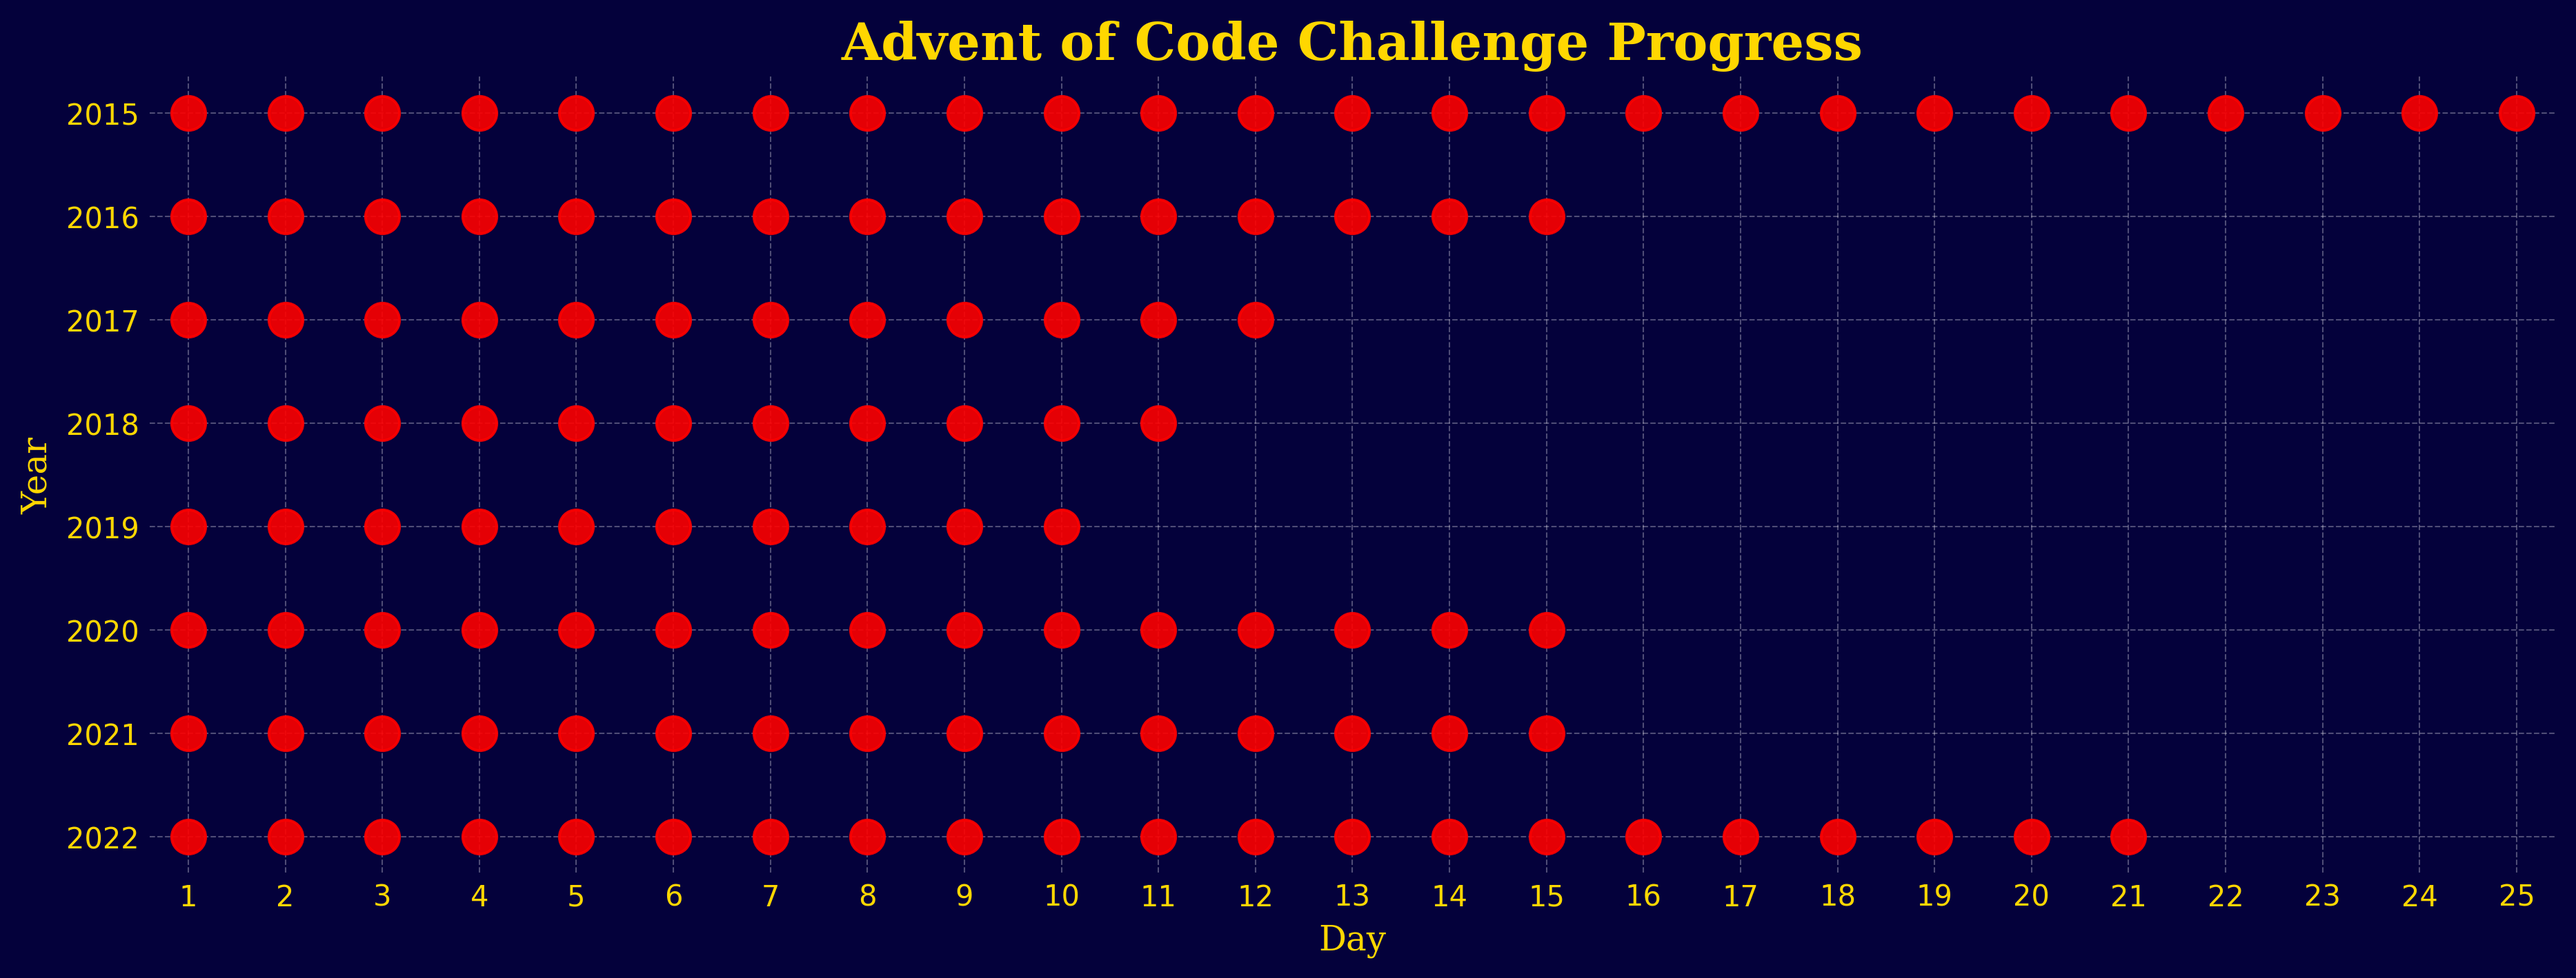
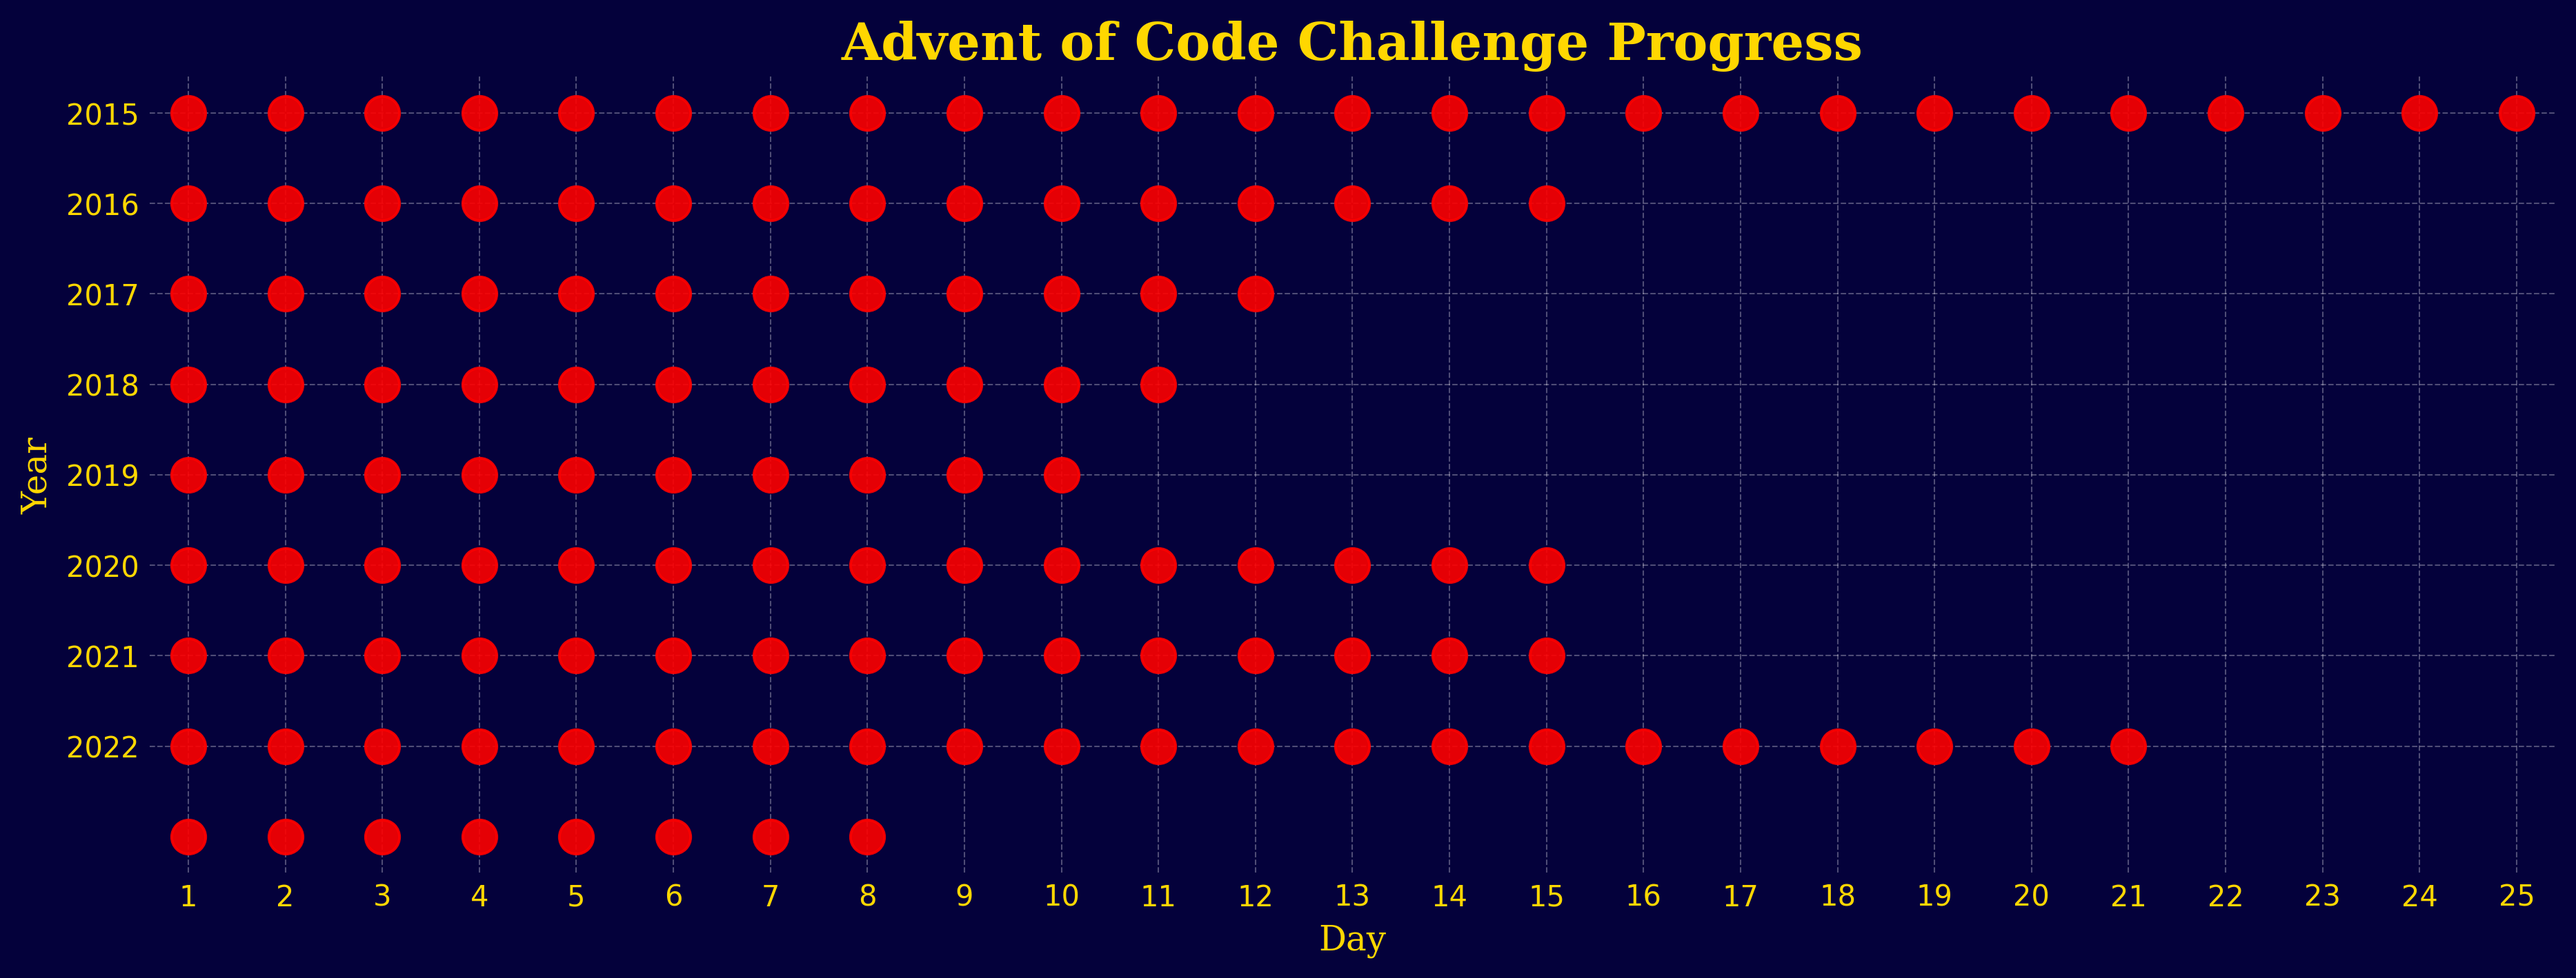
update

diff --git a/lib/aoc.py b/lib/aoc.py
@@ -421,22 +421,22 @@ function_dict = {
     # 'aoc2022_day24_part2': aoc2022_day24_part2,
     # 'aoc2022_day25_part1': aoc2022_day25_part1,
     # 'aoc2022_day25_part2': aoc2022_day25_part2,
-    # 'aoc2023_day1_part1': aoc2023_day1_part1,
-    # 'aoc2023_day1_part2': aoc2023_day1_part2,
-    # 'aoc2023_day2_part1': aoc2023_day2_part1,
-    # 'aoc2023_day2_part2': aoc2023_day2_part2,
-    # 'aoc2023_day3_part1': aoc2023_day3_part1,
-    # 'aoc2023_day3_part2': aoc2023_day3_part2,
-    # 'aoc2023_day4_part1': aoc2023_day4_part1,
-    # 'aoc2023_day4_part2': aoc2023_day4_part2,
-    # 'aoc2023_day5_part1': aoc2023_day5_part1,
-    # 'aoc2023_day5_part2': aoc2023_day5_part2,
-    # 'aoc2023_day6_part1': aoc2023_day6_part1,
-    # 'aoc2023_day6_part2': aoc2023_day6_part2,
-    # 'aoc2023_day7_part1': aoc2023_day7_part1,
-    # 'aoc2023_day7_part2': aoc2023_day7_part2,
-    # 'aoc2023_day8_part1': aoc2023_day8_part1,
-    # 'aoc2023_day8_part2': aoc2023_day8_part2,
+    'aoc2023_day1_part1': aoc2023_day1_part1,
+    'aoc2023_day1_part2': aoc2023_day1_part2,
+    'aoc2023_day2_part1': aoc2023_day2_part1,
+    'aoc2023_day2_part2': aoc2023_day2_part2,
+    'aoc2023_day3_part1': aoc2023_day3_part1,
+    'aoc2023_day3_part2': aoc2023_day3_part2,
+    'aoc2023_day4_part1': aoc2023_day4_part1,
+    'aoc2023_day4_part2': aoc2023_day4_part2,
+    'aoc2023_day5_part1': aoc2023_day5_part1,
+    'aoc2023_day5_part2': aoc2023_day5_part2,
+    'aoc2023_day6_part1': aoc2023_day6_part1,
+    'aoc2023_day6_part2': aoc2023_day6_part2,
+    'aoc2023_day7_part1': aoc2023_day7_part1,
+    'aoc2023_day7_part2': aoc2023_day7_part2,
+    'aoc2023_day8_part1': aoc2023_day8_part1,
+    'aoc2023_day8_part2': aoc2023_day8_part2,
     # 'aoc2023_day9_part1': aoc2023_day9_part1,
     # 'aoc2023_day9_part2': aoc2023_day9_part2,
     # 'aoc2023_day10_part1': aoc2023_day10_part1,

diff --git a/lib/utils.py b/lib/utils.py
@@ -6,7 +6,7 @@ import pandas as pd
 import os
 
 # Local imports
-from config import PROGRESS, SOLUTION, PUZZLE_INPUT
+from config import PROGRESS, SOLUTION, PUZZLE_INPUT, MAX_YEAR
 from lib import aoc, db
 
 
@@ -48,7 +48,7 @@ def get_completed_stat() -> str:
     completed = df.completed.sum()
     total = df.shape[0]
 
-    return f"So far I've completed {completed} of the available total of {total} two-part daily challenges."
+    return f"So far I've completed {completed} ({int(completed/total*100)}%) of the available total of {total} two-part daily challenges."
 
 
 
@@ -130,7 +130,7 @@ def create_progress_db() -> None:
     """Creates the database containing information about which puzzles have been solved so far."""
 
     data = []
-    for year in range(2015, 2023):
+    for year in range(2015, MAX_YEAR+1):
         completed = set(get_valid_days(year))
         for day in range(1, 26):
             data.append([year, day, 1 if day in completed else 0])

diff --git a/tabs/puzzle_solver.py b/tabs/puzzle_solver.py
@@ -3,13 +3,14 @@ import streamlit as st
 
 # Local imports
 from lib import db, aoc, utils
+from config import MAX_YEAR
 
 def run():
     st.title(f'✨🎄 Advent of Code Puzzle Solver 🎄✨')
     st.divider()
 
     cols = st.columns(5)
-    year = cols[0].selectbox('Year:', list(reversed(range(2015, 2023))), key='year', on_change=utils.reset_puzzle_solver)
+    year = cols[0].selectbox('Year:', list(reversed(range(2015, MAX_YEAR+1))), key='year', on_change=utils.reset_puzzle_solver)
     day = cols[1].selectbox('Day:', utils.get_valid_days(year), key='day', on_change=utils.reset_puzzle_solver)
     
     puzzle_title = db.get_title(year, day)

diff --git a/lib/plot.py b/lib/plot.py
@@ -51,7 +51,7 @@ def plot_progress():
     ax.tick_params(axis='both', colors=text_color, length=0)
     ax.set_xticks(np.arange(1, 26, 1))
     ax.set_xlim(0.6, 25.4)
-    ax.set_yticks(np.arange(2015, 2023, 1))
+    ax.set_yticks(np.arange(2015, MAX_YEAR+1, 1))
 
     # Save the plot
     plt.savefig(PROGRESS_PLOT, bbox_inches='tight', dpi=300)

diff --git a/config.py b/config.py
@@ -1,3 +1,11 @@
+from datetime import datetime
+
+### Global Variables:
+
+curr = datetime.today()
+MAX_YEAR = curr.year if curr.month == 12 else curr.year - 1
+
+
 ### All file paths in one place
 
 # Assets
